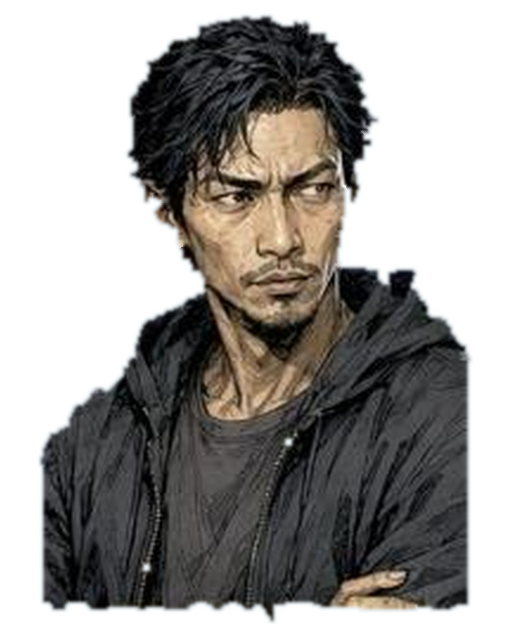
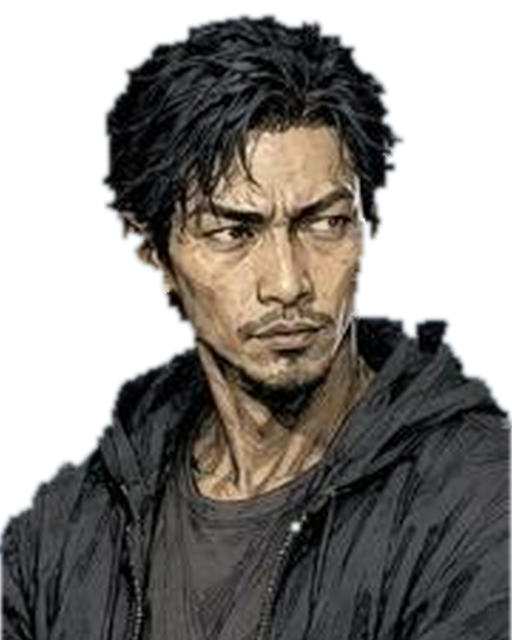
Fix Phase IV journal and portrait defects

diff --git a/js/chapters/chapter-04/04a-arman-encounter-revision.js b/js/chapters/chapter-04/04a-arman-encounter-revision.js
@@ -1,11 +1,11 @@
-/* LAST WITNESS - Chapter IV / Phase IV Consistency Repair 0.17.3
+/* LAST WITNESS - Chapter IV / Phase IV Scoped Defect Repair 0.17.4
  * Repairs Phase IV presentation against the established Chapter IV contract.
  * Story, evidence, choices, ending-profile effects and Phase III handoff remain owned
  * by 04-arman-encounter.js 0.17.0.
  */
 (function(){
 "use strict";
-const BUILD="0.17.3";
+const BUILD="0.17.4";
 if(window.LastWitnessChapter4Phase4Revision?.version===BUILD&&window.LastWitnessChapter4Phase4Revision?.installed)return;
 
 const APPROACH="armanVehicleApproach";
@@ -17,7 +17,7 @@ const COMPLETE="armanPhase4Complete";
 const SCREENS=new Set([APPROACH,LOCATION,STAIRWELL,WORKSHOP,REVEAL,COMPLETE]);
 const HUD_SCREENS=[STAIRWELL,WORKSHOP];
 const PORTRAIT_BASE="assets/images/chapter-04/phase-04/";
-const PORTRAIT_VERSION="0173";
+const PORTRAIT_VERSION="0174";
 const $=(selector,root=document)=>root.querySelector(selector);
 const $$=(selector,root=document)=>Array.from(root.querySelectorAll(selector));
 const gs=()=>{try{return state}catch(_){return window.state||null}};
@@ -27,6 +27,8 @@ const clamp=(value,min=0,max=1)=>Math.max(min,Math.min(max,Number(value)||0));
 const active=()=>$(".screen.active")?.id||gs()?.screen||"";
 
 let titleTimer=0;
+let locationTimer=0;
+let locationTimerDue=0;
 let titleTransitioning=false;
 let audioFrame=0;
 let audioTimer=0;
@@ -61,16 +63,40 @@ function updateTitleLanguage(){
  if(eye)eye.textContent=tr("CHAPTER IV · PHASE IV","บทที่ IV · เฟส IV");
  if(title)title.textContent=tr("THE MAN BEHIND THE ALIAS","ชายผู้อยู่หลังนามแฝง")
 }
+function clearLocationTimer(){clearTimeout(locationTimer);locationTimer=0;locationTimerDue=0}
+function locationButton(){return $("#ch4P4LocationContinue")}
+function enterBuildingAutomatically(){
+ clearLocationTimer();
+ const p=ensurePhaseTitleState(),screen=$("#"+LOCATION);
+ if(!p||active()!==LOCATION||!screen?.classList.contains("location-card-mode")||p.locationCardSeen||String(p.stage)!=="location")return;
+ p.locationAutoDue=0;save();
+ const button=locationButton();
+ if(button){button.click();return}
+ console.error("LAST WITNESS Phase IV automatic building entry is unavailable")
+}
+function scheduleLocationAdvance(restoring=false){
+ const p=ensurePhaseTitleState(),screen=$("#"+LOCATION);
+ if(!p||active()!==LOCATION||!screen?.classList.contains("location-card-mode")||p.locationCardSeen||String(p.stage)!=="location"){clearLocationTimer();return}
+ const now=Date.now(),existing=Number(p.locationAutoDue)||0;
+ if(!existing||existing<now-1000||existing>now+6000)p.locationAutoDue=now+(restoring?2400:2800);
+ const remaining=Math.max(180,Math.min(3000,p.locationAutoDue-now));
+ if(locationTimer&&locationTimerDue===p.locationAutoDue)return;
+ clearTimeout(locationTimer);locationTimerDue=p.locationAutoDue;
+ locationTimer=setTimeout(enterBuildingAutomatically,remaining);
+ save()
+}
 function locationMode(){
- clearTimeout(titleTimer);titleTimer=0;titleTransitioning=false;
+ clearTimeout(titleTimer);titleTimer=0;clearLocationTimer();titleTransitioning=false;
  const p=ensurePhaseTitleState();if(!p)return;
  p.phaseTitleSeen=true;p.stage="location";
  const screen=$("#"+LOCATION);screen?.classList.remove("phase-title-mode","phase-title-enter","phase-title-exit");screen?.classList.add("location-card-mode");
- setCheckpoint("ch4_phase4_location");syncProgress();scheduleAudioSync();save()
+ const button=locationButton();if(button){button.hidden=true;button.setAttribute("aria-hidden","true");button.tabIndex=-1}
+ p.locationAutoDue=Date.now()+2800;
+ setCheckpoint("ch4_phase4_location");syncProgress();scheduleAudioSync();scheduleLocationAdvance(false);save()
 }
 function presentPhaseTitle(fromRestore=false){
  const p=ensurePhaseTitleState();if(!p||p.phaseTitleSeen||titleTransitioning)return;
- titleTransitioning=true;p.approachComplete=true;p.stage="location";
+ titleTransitioning=true;clearLocationTimer();p.approachComplete=true;p.locationAutoDue=0;p.stage="location";
  if(gs()){gs().chapter=4;gs().screen=LOCATION}
  showScreen(LOCATION);
  const screen=$("#"+LOCATION);screen?.classList.remove("location-card-mode","phase-title-exit");screen?.classList.add("phase-title-mode","phase-title-enter");
@@ -80,14 +106,14 @@ function presentPhaseTitle(fromRestore=false){
 function finishVehicle(event){
  if(event){event.preventDefault?.();event.stopPropagation?.();event.stopImmediatePropagation?.()}
  const p=ensurePhaseTitleState();if(!p||(p.approachComplete&&p.phaseTitleSeen))return;
- clearTimeout(titleTimer);titleTimer=0;titleTransitioning=false;
+ clearTimeout(titleTimer);titleTimer=0;clearLocationTimer();titleTransitioning=false;
  stopMedia($("#ch4P4ApproachVideo"),true);$("#ch4P4ApproachSkip")?.setAttribute("hidden","");$("#ch4P4VideoPlay")?.setAttribute("hidden","");
  p.approachComplete=true;p.phaseTitleSeen=false;p.stage="location";
  const approach=$("#"+APPROACH);approach?.classList.add("ch4-p4-cinematic-fade");
  setCheckpoint("ch4_phase4_location");syncProgress();
  setTimeout(()=>{approach?.classList.remove("ch4-p4-cinematic-fade");presentPhaseTitle(false)},520)
 }
-function recoverTitleOnRestore(){const p=ensurePhaseTitleState();if(active()===LOCATION&&p?.approachComplete&&!p.phaseTitleSeen&&!titleTransitioning)presentPhaseTitle(true)}
+function recoverTitleOnRestore(){const p=ensurePhaseTitleState();if(active()!==LOCATION||!p?.approachComplete)return;if(!p.phaseTitleSeen){if(!titleTransitioning)presentPhaseTitle(true);return}const screen=$("#"+LOCATION);screen?.classList.remove("phase-title-mode","phase-title-enter","phase-title-exit");screen?.classList.add("location-card-mode");const button=locationButton();if(button){button.hidden=true;button.setAttribute("aria-hidden","true");button.tabIndex=-1}scheduleLocationAdvance(true)}
 
 /* Established Save/Menu HUD. Cards and videos intentionally remain cinematic. */
 function hudMarkup(labelId){return `<div class="topbar ch4-p4-topbar"><span id="${labelId}"></span><div class="hud"><button class="icon saveButton ch4-p4-save" type="button" aria-label="Save game">💾</button><button class="icon menuButton ch4-p4-menu" type="button" aria-label="Open game menu">☰<i class="journal-alert" aria-hidden="true"></i></button></div></div>`}
@@ -210,6 +236,7 @@ function normalizePortraits(){
   const img=$("img.portrait",box);if(!img)return;
   const speaker=String($(".speaker",box)?.textContent||"").toLowerCase();let desired="";
   if(speaker.startsWith("north")||speaker.includes("นอร์ธ")){desired=acceptedNorthPortrait();img.classList.add("north-portrait")}
+  else if(speaker.includes("maya")){img.classList.add("maya-portrait")}
   else if(speaker.includes("dimas")){desired=versionedPortrait("dimas",img.getAttribute("src"));img.classList.add("dimas-portrait")}
   else if(speaker.includes("arman")){desired=versionedPortrait("arman",img.getAttribute("src"));img.classList.add("arman-portrait")}
   if(desired&&absoluteURL(img.getAttribute("src"))!==absoluteURL(desired))img.setAttribute("src",desired);
@@ -222,13 +249,14 @@ function upgradeMarkup(){
  const approach=$("#"+APPROACH),location=$("#"+LOCATION),reveal=$("#"+REVEAL);
  $(".ch4-p4-video-title",approach)?.remove();$$(".ch4-p4-video-shade",approach).forEach(node=>node.remove());$$(".ch4-p4-video-shade",reveal).forEach(node=>node.remove());
  if(location&&!$(".ch4-p4-phase-title-card",location))location.insertAdjacentHTML("afterbegin",'<div class="ch4-p4-phase-title-card" aria-live="polite"><div id="ch4P4PhaseTitleEye" class="eyebrow"></div><h2 id="ch4P4PhaseTitleText"></h2><div class="ch4-p4-phase-rule"></div></div>');
+ const locationContinue=locationButton();if(locationContinue){locationContinue.hidden=true;locationContinue.setAttribute("aria-hidden","true");locationContinue.tabIndex=-1}
  installHUD();installProgress();updateLanguage();bindCinematicControls();normalizePortraits();syncProgress();scheduleAudioSync()
 }
 function bindCinematicControls(){
  const skip=$("#ch4P4ApproachSkip"),video=$("#ch4P4ApproachVideo"),returnButton=$("#ch4P4ReturnTitle");
  if(skip&&skip.dataset.lwP4RevisionBound!==BUILD){skip.dataset.lwP4RevisionBound=BUILD;skip.addEventListener("click",finishVehicle,true)}
  if(video&&video.dataset.lwP4RevisionBound!==BUILD){video.dataset.lwP4RevisionBound=BUILD;video.addEventListener("ended",finishVehicle,true);video.addEventListener("error",finishVehicle,true)}
- if(returnButton&&returnButton.dataset.lwP4RevisionBound!==BUILD){returnButton.dataset.lwP4RevisionBound=BUILD;returnButton.addEventListener("click",()=>{clearTimeout(titleTimer);stopMedia($("#ch4P4Score"),true)},true)}
+ if(returnButton&&returnButton.dataset.lwP4RevisionBound!==BUILD){returnButton.dataset.lwP4RevisionBound=BUILD;returnButton.addEventListener("click",()=>{clearTimeout(titleTimer);clearLocationTimer();stopMedia($("#ch4P4Score"),true)},true)}
 }
 function setBuild(){const node=$("#settingsVersion");if(node&&SCREENS.has(active()))node.textContent="LAST WITNESS · BUILD "+BUILD}
 function contractStatus(){
@@ -241,7 +269,9 @@ function contractStatus(){
   settingsAvailable:Boolean($("#settingsButton")&&!$("#settingsButton").disabled),
   saveAvailable:Boolean(typeof manualSave==="function"||window.LastWitnessSaveManager?.open),
   portraitsVerified:$$('.ch4-p4-dialogue img.portrait').every(img=>img.classList.contains('ch4-p4-portrait-verified')||!img.closest('.ch4-p4-dialogue:not(.hidden)')),
-  devPhases:Array.isArray(window.LastWitnessDeveloperPhaseNavigation?.phases)?window.LastWitnessDeveloperPhaseNavigation.phases.map(item=>item.phase):[]
+  devPhases:Array.isArray(window.LastWitnessDeveloperPhaseNavigation?.phases)?window.LastWitnessDeveloperPhaseNavigation.phases.map(item=>item.phase):[],
+  locationAutoAdvance:Boolean(locationButton()?.hidden&&phase()?.phaseTitleSeen),
+  mayaPortraitClean:$$('.ch4-p4-dialogue img.maya-portrait').every(img=>getComputedStyle(img).clipPath!=="none")
  }
 }
 function syncRuntime(){upgradeMarkup();recoverTitleOnRestore();releaseDeferredArman();normalizePortraits();syncProgress();scheduleAudioSync();if(active()==="title")stopMedia($("#ch4P4Score"),true);if(SCREENS.has(active()))setBuild()}
@@ -250,7 +280,7 @@ function installObservers(){
  for(const id of SCREENS){const screen=$("#"+id);if(screen)new MutationObserver(queue).observe(screen,{attributes:true,attributeFilter:["class"]})}
  const dialogue=$("#"+WORKSHOP+"Dialogue");if(dialogue)new MutationObserver(queue).observe(dialogue,{attributes:true,attributeFilter:["class"],childList:true,subtree:true});
  document.addEventListener("click",()=>{setTimeout(syncRuntime,20);setTimeout(syncRuntime,380)},true);
- document.addEventListener("visibilitychange",()=>{if(document.hidden)stopMedia($("#ch4P4Score"),false);else scheduleAudioSync()});
+ document.addEventListener("visibilitychange",()=>{if(document.hidden){clearLocationTimer();stopMedia($("#ch4P4Score"),false)}else{recoverTitleOnRestore();scheduleLocationAdvance(true);scheduleAudioSync()}});
  document.addEventListener("click",event=>{if(event.target.closest?.("[data-lang]"))setTimeout(updateLanguage,0);if(event.target.closest?.("#developerMenuButton,#settingsVersion"))setTimeout(()=>window.LastWitnessDeveloperPhaseNavigation?.install?.(),0)},true);
  $("#musicRange")?.addEventListener("input",scheduleAudioSync,true);$("#soundToggle")?.addEventListener("change",scheduleAudioSync,true)
 }

diff --git a/js/engine/20-character-journal-story-gate.js b/js/engine/20-character-journal-story-gate.js
@@ -1,0 +1,153 @@
+/* LAST WITNESS — Character Journal Story Gate 0.17.4
+ * Restores the original progression contract:
+ * - Chapter I: Character Journal and unread dots are hidden.
+ * - Chapter II: they unlock only after the North introduction completes.
+ * - Chapter III onward: they remain available.
+ * - An explicit Developer "Unlock Characters" action may bypass the story gate.
+ */
+(function(){
+"use strict";
+const VERSION="0.17.4";
+if(window.LastWitnessCharacterJournalStoryGate?.version===VERSION&&window.LastWitnessCharacterJournalStoryGate?.installed)return;
+
+const $=(selector,root=document)=>root.querySelector(selector);
+const $$=(selector,root=document)=>Array.from(root.querySelectorAll(selector));
+const gs=()=>{try{return state}catch(_){return window.state||null}};
+const active=()=>$(".screen.active")?.id||gs()?.screen||"";
+let devUnlockSession=false;
+let earlyResetDone=false;
+let apiWrapped=false;
+let syncQueued=false;
+let observer=null;
+let originalUnlockCharacter=null;
+let originalUpdateVisibility=null;
+let originalUpdateDots=null;
+
+function chapter(){return Number(gs()?.chapter||1)}
+function northJournalUnlocked(){return gs()?.flags?.chapter2_character_feature_unlocked===true}
+function storyAllowsJournal(){
+ if(devUnlockSession)return true;
+ if(chapter()>=3)return true;
+ return chapter()===2&&northJournalUnlocked()
+}
+function earlyStoryGate(){
+ if(devUnlockSession)return false;
+ return chapter()===1||(chapter()===2&&!northJournalUnlocked())
+}
+function setButtonVisible(button,visible){
+ if(!button)return;
+ const mode=visible?"1":"0",actuallyVisible=!button.hidden&&button.style.display!=="none";
+ if(button.dataset.lwJournalGateVisible===mode&&actuallyVisible===visible)return;
+ button.dataset.lwJournalGateVisible=mode;
+ button.hidden=!visible;button.disabled=!visible;button.toggleAttribute("aria-hidden",!visible);
+ if(visible){
+  button.removeAttribute("hidden");
+  button.style.setProperty("display","block","important");
+  button.style.setProperty("visibility","visible","important");
+  button.style.setProperty("opacity","1","important");
+  button.style.setProperty("pointer-events","auto","important");
+  ["height","overflow","margin-top","min-height","padding","border"].forEach(name=>button.style.removeProperty(name))
+ }else{
+  button.style.setProperty("display","none","important");
+  button.style.setProperty("visibility","hidden","important");
+  button.style.setProperty("opacity","0","important");
+  button.style.setProperty("pointer-events","none","important");
+  button.style.setProperty("margin-top","0","important");
+  button.style.setProperty("min-height","0","important");
+  button.style.setProperty("height","0","important");
+  button.style.setProperty("padding","0","important");
+  button.style.setProperty("border","0","important");
+  button.style.setProperty("overflow","hidden","important")
+ }
+}
+function enforceDOM(){
+ const allowed=storyAllowsJournal(),s=gs();
+ setButtonVisible($("#charactersButton"),allowed);
+ const showDot=Boolean(allowed&&Array.isArray(s?.lwCharactersUnread)&&s.lwCharactersUnread.length>0&&s?.journal?.seen===false);
+ $$(".journal-alert").forEach(dot=>dot.classList.toggle("show",showDot));
+ return allowed
+}
+function resetEarlyStoryRegistry(){
+ const api=window.LastWitnessContentRegistry,s=gs();
+ if(!api||!s||!earlyStoryGate()||earlyResetDone)return false;
+ earlyResetDone=true;
+ try{api.resetForChapter2?.()}catch(error){console.error("LAST WITNESS Character Journal early-story reset failed",error)}
+ s.flags=s.flags||{};
+ delete s.flags.developer_character_unlock_all;
+ delete s.flags.developer_evidence_unlock_all;
+ s.lwJournalEnabled=false;
+ if(s.journal&&typeof s.journal==="object"){s.journal.unlocked=false;s.journal.seen=true}
+ enforceDOM();
+ return true
+}
+function wrapAPI(){
+ const api=window.LastWitnessContentRegistry;if(!api||apiWrapped)return Boolean(api);
+ apiWrapped=true;
+ originalUnlockCharacter=api.unlockCharacter?.bind(api)||null;
+ originalUpdateVisibility=api.updateVisibility?.bind(api)||null;
+ originalUpdateDots=api.updateDots?.bind(api)||null;
+ if(originalUnlockCharacter){
+  const wrapped=function(id,opt={}){
+   if(opt?.source==="dev"&&earlyStoryGate()&&!devUnlockSession)return false;
+   const result=originalUnlockCharacter(id,opt);
+   queueSync();
+   return result
+  };
+  wrapped.__lwJournalStoryGate=VERSION;
+  api.unlockCharacter=wrapped
+ }
+ if(originalUpdateVisibility)api.updateVisibility=function(){const result=originalUpdateVisibility();enforceDOM();return result};
+ if(originalUpdateDots)api.updateDots=function(){const result=originalUpdateDots();enforceDOM();return result};
+ return true
+}
+function sync(){
+ syncQueued=false;
+ wrapAPI();
+ if(earlyStoryGate())resetEarlyStoryRegistry();else earlyResetDone=false;
+ enforceDOM()
+}
+function queueSync(){
+ if(syncQueued)return;syncQueued=true;
+ requestAnimationFrame(()=>{sync();setTimeout(sync,80)})
+}
+function markExplicitDevUnlock(){
+ devUnlockSession=true;earlyResetDone=false;
+ try{sessionStorage.setItem("lastWitness.devCharacterUnlockSession","1")}catch(_){}
+ queueSync()
+}
+function clearDevSession(){
+ devUnlockSession=false;earlyResetDone=false;
+ try{sessionStorage.removeItem("lastWitness.devCharacterUnlockSession")}catch(_){}
+ queueSync()
+}
+function bindClicks(){
+ document.addEventListener("click",event=>{
+  if(event.target.closest?.("#devUnlockCharacters")){markExplicitDevUnlock();return}
+  if(event.target.closest?.("#newGame,#restart")){clearDevSession();return}
+  if(event.target.closest?.("#charactersButton")&&!storyAllowsJournal()){
+   event.preventDefault();event.stopPropagation();event.stopImmediatePropagation();enforceDOM()
+  }
+  setTimeout(queueSync,0)
+ },true)
+}
+function bindObserver(){
+ observer?.disconnect();
+ observer=new MutationObserver(queueSync);
+ observer.observe(document.body,{subtree:true,childList:true,attributes:true,attributeFilter:["class","hidden","style"]})
+}
+function bind(){
+ try{devUnlockSession=sessionStorage.getItem("lastWitness.devCharacterUnlockSession")==="1"}catch(_){}
+ wrapAPI();bindClicks();bindObserver();sync();
+ window.LastWitnessCharacterJournalStoryGate={
+  installed:true,version:VERSION,sync,storyAllowsJournal,earlyStoryGate,
+  markExplicitDevUnlock,clearDevSession,
+  contractStatus:()=>({
+   chapter:chapter(),screen:active(),northUnlocked:northJournalUnlocked(),
+   developerSession:devUnlockSession,allowed:storyAllowsJournal(),
+   buttonVisible:Boolean($("#charactersButton")&&!$("#charactersButton").hidden&&getComputedStyle($("#charactersButton")).display!=="none"),
+   redDots:$$(".journal-alert.show").length
+  })
+ }
+}
+if(document.readyState==="loading")document.addEventListener("DOMContentLoaded",bind,{once:true});else bind();
+})();

diff --git a/js/engine/09-defect-hotfix.js b/js/engine/09-defect-hotfix.js
@@ -1,7 +1,7 @@
-/* LAST WITNESS - Legacy Compatibility Shim + Runtime Bootstrap 0.17.3
+/* LAST WITNESS - Legacy Compatibility Shim + Runtime Bootstrap 0.17.4
  * Loads approved localization and targeted QC before dynamic Chapter IV modules.
  * Existing Phase I through Phase III order is preserved. Phase IV 0.17.0 loads first,
- * followed by the owner-approved consistency repair 0.17.3,
+ * followed by the owner-approved scoped defect repair 0.17.4,
  * then the direct Phase III handoff and Developer Phase Navigation patches.
  */
 (function(){
@@ -29,6 +29,11 @@ script("js/engine/15-thai-localization.js?v=0152","lwThaiLocalizationScript",()=
   "lwPolicePortraitAlignmentScript",
   ()=>Boolean(window.LastWitnessPolicePortraitAlignment?.version==="0.15.4"&&window.LastWitnessPolicePortraitAlignment?.installed)
  ).catch(error=>console.error("LAST WITNESS police portrait alignment failed to load",error)))
+ .then(()=>script(
+  "js/engine/20-character-journal-story-gate.js?v=0174",
+  "lwCharacterJournalStoryGateScript",
+  ()=>Boolean(window.LastWitnessCharacterJournalStoryGate?.version==="0.17.4"&&window.LastWitnessCharacterJournalStoryGate?.installed)
+ ).catch(error=>console.error("LAST WITNESS Character Journal story gate failed to load",error)))
  .then(()=>script("js/chapters/chapter-04/01-afterimage.js?v=0132","lwChapter04Phase01Script",()=>Boolean(window.LastWitnessChapter4Phase1)))
  .then(()=>{
   stylesheet("css/chapter-04-phase-02.css?v=0149","lwChapter04Phase02Style");
@@ -46,11 +51,11 @@ script("js/engine/15-thai-localization.js?v=0152","lwThaiLocalizationScript",()=
    .catch(error=>console.error("LAST WITNESS The Man Behind the Alias failed to load",error))
  })
  .then(()=>{
-  stylesheet("css/chapter-04-phase-04-revision.css?v=0173","lwChapter04Phase04RevisionStyle");
+  stylesheet("css/chapter-04-phase-04-revision.css?v=0174","lwChapter04Phase04RevisionStyle");
   return script(
-   "js/chapters/chapter-04/04a-arman-encounter-revision.js?v=0173",
+   "js/chapters/chapter-04/04a-arman-encounter-revision.js?v=0174",
    "lwChapter04Phase04RevisionScript",
-   ()=>Boolean(window.LastWitnessChapter4Phase4Revision?.version==="0.17.3"&&window.LastWitnessChapter4Phase4Revision?.installed)
+   ()=>Boolean(window.LastWitnessChapter4Phase4Revision?.version==="0.17.4"&&window.LastWitnessChapter4Phase4Revision?.installed)
   ).catch(error=>console.error("LAST WITNESS Phase IV consistency repair failed to load",error))
  })
  .then(()=>script(

diff --git a/css/chapter-04-phase-04-revision.css b/css/chapter-04-phase-04-revision.css
@@ -1,4 +1,4 @@
-/* LAST WITNESS — Chapter IV / Phase IV Consistency Repair 0.17.3 */
+/* LAST WITNESS — Chapter IV / Phase IV Scoped Defect Repair 0.17.4 */
 
 /* Owner-graded scenes and both videos render at source luminance. */
 .ch4-p4-video-screen video,
@@ -19,6 +19,7 @@
 .ch4-p4-location.phase-title-mode .ch4-p4-phase-title-card{display:block}
 .ch4-p4-location.phase-title-mode .ch4-p4-location-card{display:none}
 .ch4-p4-location.location-card-mode .ch4-p4-phase-title-card{display:none}
+#ch4P4LocationContinue{display:none!important}
 .ch4-p4-phase-title-card .eyebrow{color:#ddb56d;font-size:11px;font-weight:800;letter-spacing:.24em}
 .ch4-p4-phase-title-card h2{margin:12px 0 0;color:#f7f0e6;font:500 clamp(32px,9vw,58px)/.98 Georgia,serif;letter-spacing:.055em;text-wrap:balance}
 .ch4-p4-phase-rule{width:min(190px,48vw);height:1px;margin:24px auto 0;background:linear-gradient(90deg,transparent,#ddb56d,transparent)}
@@ -52,6 +53,7 @@
 .ch4-p4-dialogue .portrait.dimas-portrait{object-position:center top!important}
 .ch4-p4-dialogue .portrait.arman-portrait{object-position:center top!important}
 .ch4-p4-dialogue .portrait.north-portrait{object-position:center 12%!important}
+.ch4-p4-dialogue .portrait.maya-portrait{object-fit:cover!important;object-position:center top!important;transform:scale(1.035)!important;transform-origin:center top!important;clip-path:inset(0 0 3px 0)!important}
 .ch4-p4-dialogue .portrait-wrap:empty{display:none}
 
 /* Premium surfaces remain in the established gold/noir family, with restrained cool technical accents. */
@@ -85,3 +87,9 @@ html[lang="th"] .ch4-p4-phase-title-card h2{letter-spacing:.01em;line-height:1.0
  .ch4-p4-cinematic-fade,.phase-title-enter .ch4-p4-phase-title-card,.phase-title-exit .ch4-p4-phase-title-card{animation:none!important}
  .ch4-p4-progress-fill{transition:none}
 }
+
+
+/* Arman Journal portrait uses a Benedict-referenced head-and-upper-torso scale. */
+#characterGrid [data-character="arman"]{overflow:hidden}
+#characterGrid [data-character="arman"] img[data-character-image="arman"]{object-fit:cover!important;object-position:center 12%!important;transform:scale(1.06);transform-origin:center 20%}
+#characterDetail img[data-detail-image="arman"]{object-fit:cover!important;object-position:center 10%!important}
